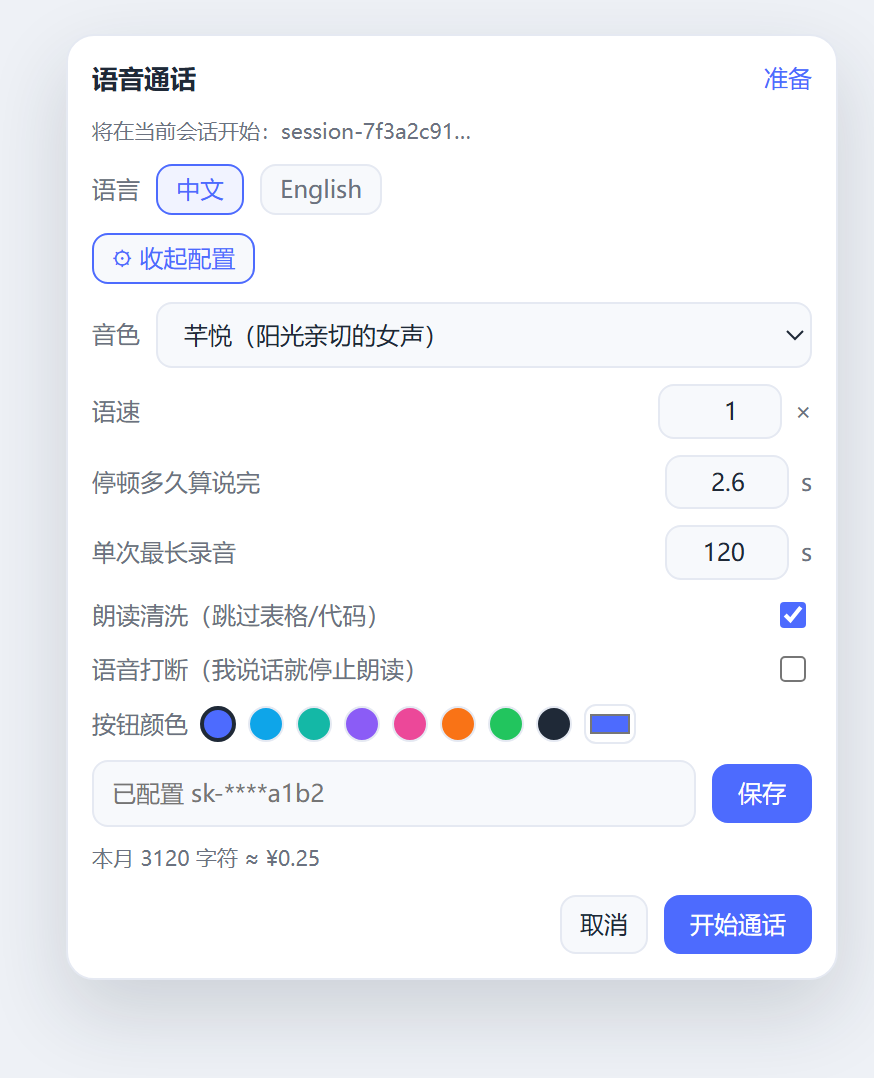
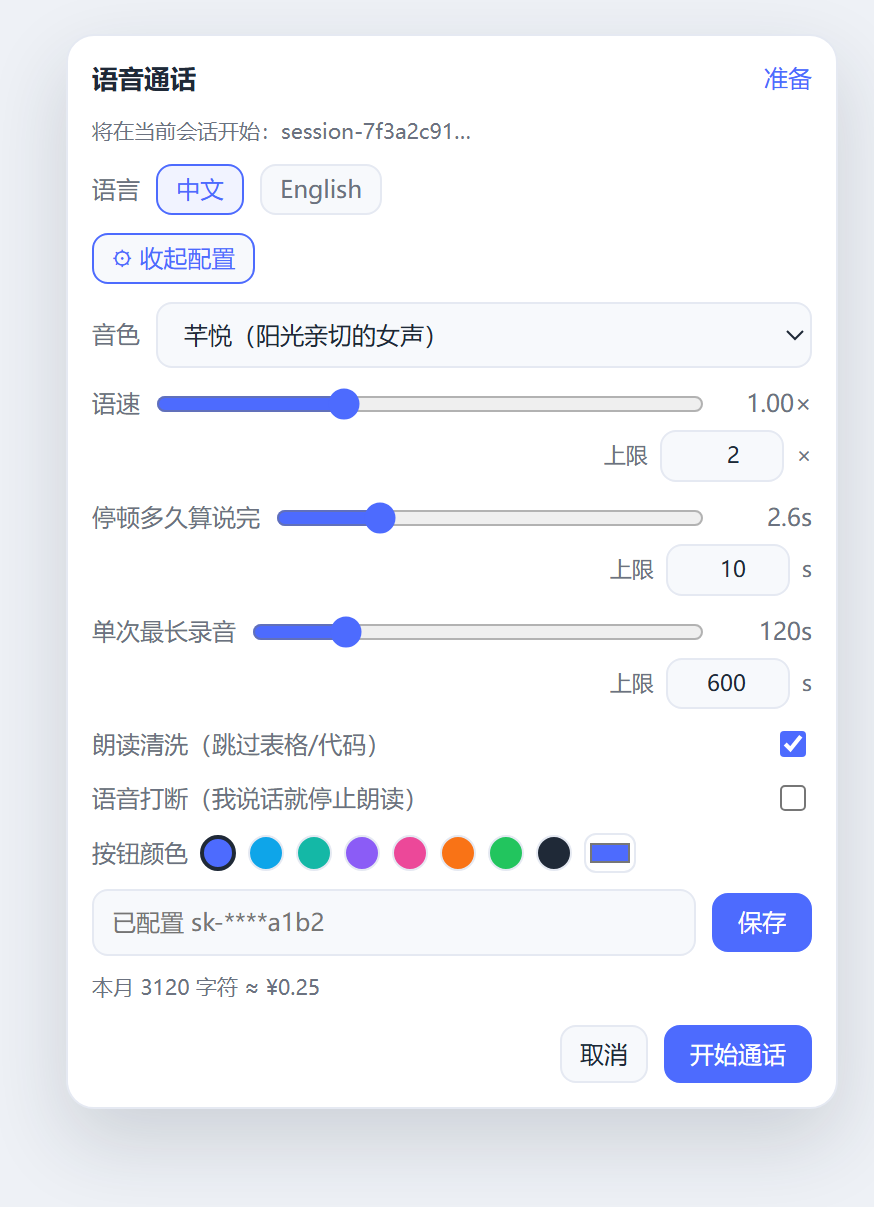
Give each numeric setting a slider with an editable ceiling
Rate, pause-before-send and max recording now show a slider plus a 上限 field.
The typed ceiling becomes the slider's max; lowering it clamps the current
value, and both are stored per browser.

diff --git a/client.js b/client.js
@@ -35,15 +35,19 @@ window.__ModuleLoader__.load({
 
     const FONT = "12px/1.45 system-ui, -apple-system, 'Segoe UI', sans-serif";
     const MIC_THRESHOLD = 0.009;
-    // Defaults only: the setup panel accepts any value inside these bounds.
+    // Each setting has a value (the slider) and a ceiling (a typed field that
+    // becomes the slider's max). The *_MAX constants only bound the ceiling.
     const SILENCE_MS = 2600;
     const SILENCE_MIN = 500;
-    const SILENCE_MAX = 30000;
+    const SILENCE_MAX = 60000;
+    const SILENCE_CAP = 10000;
     const MAX_RECORD_MS = 120000;
     const MAX_RECORD_MIN = 10000;
-    const MAX_RECORD_MAX = 900000;
+    const MAX_RECORD_MAX = 3600000;
+    const MAX_RECORD_CAP = 600000;
     const RATE_MIN = 0.5;
-    const RATE_MAX = 3;
+    const RATE_MAX = 5;
+    const RATE_CAP = 2;
     const IDLE_MS = 10000;
     const FIRST_CHUNK = 90;
     const SPEECH_TAIL_MS = 600;
@@ -97,7 +101,9 @@ window.__ModuleLoader__.load({
         'silence': '停顿多久算说完',
         'silence.hint': '说完后静音多久就把这句话发出去；说长句时调大',
         'maxRecord': '单次最长录音',
-        'maxRecord.hint': '一次最多录多久，到时间就自动结束并发送（10–900 秒）',
+        'maxRecord.hint': '一次最多录多久，到时间就自动结束并发送',
+        'cap': '上限',
+        'cap.hint': '这一行的横条最多能拉到多少；改小会把当前值一起压下来',
         'input.clamp': '已按允许范围调整：{min}–{max}',
         'settings': '配置',
         'settings.hide': '收起配置',
@@ -164,7 +170,9 @@ window.__ModuleLoader__.load({
         'silence': 'Pause before sending',
         'silence.hint': 'How long a silence ends a sentence; raise it for long dictation',
         'maxRecord': 'Max recording',
-        'maxRecord.hint': 'Hard limit for one utterance; it ends and sends when reached (10–900 s)',
+        'maxRecord.hint': 'Hard limit for one utterance; it ends and sends when reached',
+        'cap': 'Max',
+        'cap.hint': "The slider's ceiling; lowering it pulls the current value down too",
         'input.clamp': 'Adjusted to the allowed range: {min}–{max}',
         'settings': 'Settings',
         'settings.hide': 'Hide settings',
@@ -288,6 +296,50 @@ window.__ModuleLoader__.load({
       if (!value) stopBargeWatch();
     }
 
+    function readStored(key, fallback, min, max) {
+      try {
+        const saved = Number(localStorage.getItem(key));
+        if (Number.isFinite(saved) && saved > 0) return Math.min(max, Math.max(min, saved));
+      } catch {}
+      return fallback;
+    }
+
+    const storedRateCap = readStored('dsh-voice-call-rate-cap', RATE_CAP, RATE_MIN + 0.1, RATE_MAX);
+    const storedSilenceCap = readStored('dsh-voice-call-silence-cap', SILENCE_CAP, SILENCE_MIN, SILENCE_MAX);
+    const storedRecordCap = readStored(
+      'dsh-voice-call-record-cap',
+      MAX_RECORD_CAP,
+      MAX_RECORD_MIN,
+      MAX_RECORD_MAX,
+    );
+
+    function setRateCap(value) {
+      const cap = Math.min(RATE_MAX, Math.max(RATE_MIN + 0.1, Number(value) || RATE_CAP));
+      set({ rateCap: cap });
+      try {
+        localStorage.setItem('dsh-voice-call-rate-cap', String(cap));
+      } catch {}
+      if (call.rate > cap) setRate(cap);
+    }
+
+    function setSilenceCap(value) {
+      const cap = Math.min(SILENCE_MAX, Math.max(SILENCE_MIN, Math.round(Number(value) || SILENCE_CAP)));
+      set({ silenceCap: cap });
+      try {
+        localStorage.setItem('dsh-voice-call-silence-cap', String(cap));
+      } catch {}
+      if (call.silence > cap) setSilence(cap);
+    }
+
+    function setRecordCap(value) {
+      const cap = Math.min(MAX_RECORD_MAX, Math.max(MAX_RECORD_MIN, Math.round(Number(value) || MAX_RECORD_CAP)));
+      set({ recordCap: cap });
+      try {
+        localStorage.setItem('dsh-voice-call-record-cap', String(cap));
+      } catch {}
+      if (call.maxRecord > cap) setMaxRecord(cap);
+    }
+
     const listeners = new Set();
     let call = {
       active: false,
@@ -313,6 +365,9 @@ window.__ModuleLoader__.load({
       bargeIn: storedBargeIn,
       silence: storedSilence,
       maxRecord: storedMaxRecord,
+      rateCap: storedRateCap,
+      silenceCap: storedSilenceCap,
+      recordCap: storedRecordCap,
     };
 
     function set(patch) {
@@ -1699,59 +1754,112 @@ window.__ModuleLoader__.load({
       });
     }
 
-    function rateRow(state, accent) {
+    /**
+     * A slider whose ceiling is itself editable: the typed ceiling becomes the
+     * slider's max, and the current value is clamped when that ceiling shrinks.
+     */
+    function rangeRow(props) {
+      const cap = Math.max(props.min, Math.min(props.absMax, props.cap));
+      const value = Math.max(props.min, Math.min(cap, props.value));
       return h(
-        'label',
-        { style: S.label },
-        t('rate'),
-        h('span', { style: { flex: 1 } }),
-        h(NumberField, {
-          value: Math.round(Number(state.rate) * 100) / 100,
-          min: RATE_MIN,
-          max: RATE_MAX,
-          step: 0.05,
-          onCommit: (value) => setRate(value),
-        }),
-        h('span', null, '×'),
+        'div',
+        { style: { display: 'flex', flexDirection: 'column', gap: 3 } },
+        h(
+          'label',
+          { style: S.label, title: props.title },
+          props.label,
+          h('input', {
+            type: 'range',
+            min: props.min,
+            max: cap,
+            step: props.step,
+            value,
+            onChange: (event) => props.onValue(Number(event.target.value)),
+            style: { flex: 1, accentColor: props.accent },
+          }),
+          h('span', { style: { width: 46, textAlign: 'right' } }, props.show(value)),
+        ),
+        h(
+          'div',
+          {
+            style: {
+              display: 'flex',
+              alignItems: 'center',
+              justifyContent: 'flex-end',
+              gap: 6,
+              fontSize: 11,
+              color: TOKENS.muted,
+            },
+            title: t('cap.hint'),
+          },
+          t('cap'),
+          h(NumberField, {
+            value: props.capValue,
+            min: props.min,
+            max: props.absMax,
+            step: props.step,
+            title: t('cap.hint'),
+            onCommit: props.onCap,
+          }),
+          h('span', null, props.suffix),
+        ),
       );
+    }
+
+    function rateRow(state, accent) {
+      const cap = Number(state.rateCap) || RATE_CAP;
+      return rangeRow({
+        label: t('rate'),
+        accent,
+        value: Number(state.rate),
+        min: RATE_MIN,
+        cap,
+        capValue: cap,
+        absMax: RATE_MAX,
+        step: 0.05,
+        suffix: '×',
+        show: (v) => Number(v).toFixed(2) + '×',
+        onValue: (v) => setRate(v),
+        onCap: (v) => setRateCap(v),
+      });
     }
 
     function silenceRow(state, accent) {
-      const seconds = Math.round((Number(state.silence) || SILENCE_MS) / 100) / 10;
-      return h(
-        'label',
-        { style: S.label, title: t('silence.hint') },
-        t('silence'),
-        h('span', { style: { flex: 1 } }),
-        h(NumberField, {
-          value: seconds,
-          min: SILENCE_MIN / 1000,
-          max: SILENCE_MAX / 1000,
-          step: 0.1,
-          title: t('silence.hint'),
-          onCommit: (value) => setSilence(value * 1000),
-        }),
-        h('span', null, 's'),
-      );
+      const capMs = Number(state.silenceCap) || SILENCE_CAP;
+      return rangeRow({
+        label: t('silence'),
+        title: t('silence.hint'),
+        accent,
+        value: Math.round((Number(state.silence) || SILENCE_MS) / 100) / 10,
+        cap: capMs / 1000,
+        capValue: Math.round(capMs / 100) / 10,
+        min: SILENCE_MIN / 1000,
+        absMax: SILENCE_MAX / 1000,
+        step: 0.1,
+        suffix: 's',
+        show: (v) => Number(v).toFixed(1) + 's',
+        onValue: (v) => setSilence(v * 1000),
+        onCap: (v) => setSilenceCap(v * 1000),
+      });
     }
 
     function maxRecordRow(state, accent) {
-      const seconds = Math.round((Number(state.maxRecord) || MAX_RECORD_MS) / 1000);
-      return h(
-        'label',
-        { style: S.label, title: t('maxRecord.hint') },
-        t('maxRecord'),
-        h('span', { style: { flex: 1 } }),
-        h(NumberField, {
-          value: seconds,
-          min: MAX_RECORD_MIN / 1000,
-          max: MAX_RECORD_MAX / 1000,
-          step: 5,
-          title: t('maxRecord.hint'),
-          onCommit: (value) => setMaxRecord(value * 1000),
-        }),
-        h('span', null, 's'),
-      );
+      const capMs = Number(state.recordCap) || MAX_RECORD_CAP;
+      return rangeRow({
+        label: t('maxRecord'),
+        title: t('maxRecord.hint'),
+        accent,
+        value: Math.round((Number(state.maxRecord) || MAX_RECORD_MS) / 1000),
+        cap: capMs / 1000,
+        capValue: Math.round(capMs / 1000),
+        min: MAX_RECORD_MIN / 1000,
+        absMax: MAX_RECORD_MAX / 1000,
+        step: 5,
+        suffix: 's',
+        show: (v) => Math.round(Number(v)) + 's',
+        onValue: (v) => setMaxRecord(v * 1000),
+        onCap: (v) => setRecordCap(v * 1000),
+      });
     }
 
     function cleanRow(state, accent) {

diff --git a/README.zh.md b/README.zh.md
@@ -101,7 +101,7 @@
 ## 行为说明
 
 - **说一句的结束由你定。** “停顿多久算说完”控制说完后静音多久才发送；想立刻发送仍然按 **说完**。
-- **三个数字都是手填的，不是写死的。** 语速（0.5–3.0×）、停顿判定（0.5–30 秒）、单次最长录音（10–900 秒）都是输入框，括号里的范围只是合理边界；填完按回车或点别处生效。
+- **每个横条的上限都能自己填。** 语速、停顿判定、单次最长录音都是一条横条 + 一个「上限」输入框：填多大的上限，横条就拉到那么长（语速 0.5–5×、停顿 0.5–60 秒、录音 10 秒–1 小时）；上限调小时当前值会一起压下来。填完按回车或点别处生效，按浏览器保存。
 - **「打断」只停止朗读。** 它中断当前的合成请求、清空队列，但 Agent 继续生成。如果这一轮还在跑，你接着说会用 `steer` 把话插进当前轮。
 - **语音打断是可选项，默认关闭。** 打开后，朗读期间麦克风保持开启：你一开口，朗读会在零点几秒内停下，这句话被录下来，作为普通消息发进去（如果这一轮仍在生成，则用 `steer` 插话）。如果 2.5 秒内没识别出文字——咳嗽、关门、外放回声——会从断开的地方继续朗读，不丢内容。开关在准备面板和通话卡片上都有。
 - **边生成边朗读。** 每完成一句（或攒到 90 字）就立刻送去合成，不再等 `turn/end`，所以第一声不用等整段回复写完。剩下的延迟是 DashScope 的往返和合成时间。

diff --git a/README.md b/README.md
@@ -145,9 +145,10 @@ cannot be changed by accident mid-call.
 
 - **A sentence ends after a silence you control.** The 停顿多久算说完 field sets
   how long a pause ends the utterance; **说完** still sends immediately.
-- **Three numbers are typed, not fixed.** Rate (0.5–3.0×), pause before sending
-  (0.5–30 s) and max recording (10–900 s) are number fields, with those values as
-  sanity bounds only; commit with Enter or by leaving the field.
+- **Each slider's ceiling is editable.** Rate, pause-before-send and max recording
+  show a slider plus a 上限 field: type a ceiling and the slider rescales to it
+  (0.5–5×, 0.5–60 s, 10 s–1 h); lowering the ceiling also pulls the current value
+  down. Findings commit on Enter or blur and persist per browser.
 - **“打断” stops the reading only.** It aborts the current speech fetches, clears
   the queue, and keeps the agent generating. Speaking again while the turn is
   still running sends that message with `steer`.
